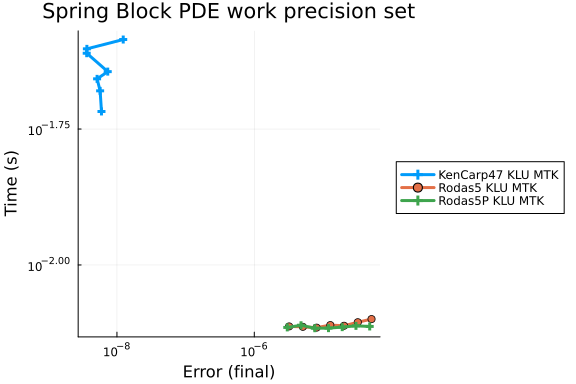
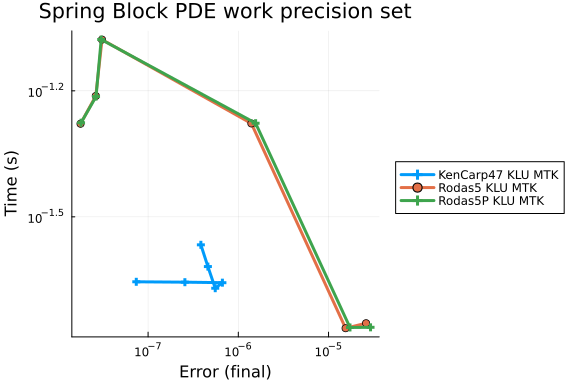
Publish refreshed SpringBlock benchmark (#33)
Claude-Session: https://chatgpt.com/codex/tasks/01a03a17-ad6f-7131-82fc-d0fd57ea6512

diff --git a/markdown/ComplicatedPDE/SpringBlockNonLinearResistance.md b/markdown/ComplicatedPDE/SpringBlockNonLinearResistance.md
@@ -8,6 +8,7 @@ see https://discourse.julialang.org/t/boundserror-on-odeproblem-accelerated-with
 
 ```julia
 using OrdinaryDiffEq, Symbolics, ModelingToolkit, Sundials, LinearSolve, SparseArrays
+using OrdinaryDiffEqRosenbrock, OrdinaryDiffEqSDIRK
 using NonlinearSolve
 using GaussianRandomFields
 using StableRNGs
@@ -137,12 +138,6 @@ output = similar(input);
 sparsity_pattern = Symbolics.jacobian_sparsity(f0, output, input, nothing, 0.0);
 jac_sparsity = Float64.(sparse(sparsity_pattern));
 f = ODEFunction{true, SciMLBase.FullSpecialize}(f0; jac_prototype = jac_sparsity);
-#Callbacks--------------------------------------------------------------------------------------------------------------------
-is_start(u, t, integrator) = sum(abs.(integrator.u[(Ny * Nx + 1):(2 * Ny * Nx)]))>0.01 #detects onset of high cumulative velocity phase
-is_end(u, t, integrator) = sum(abs.(integrator.u[(Ny * Nx + 1):(2 * Ny * Nx)]))<0.01 #detects end of high cumulative velocity phase
-affect!(integrator) = terminate!(integrator)
-cb1 = DiscreteCallback(is_start, terminate!, save_positions = (false, false))
-cb2 = DiscreteCallback(is_end, terminate!, save_positions = (false, false))
 #Solver Setup-------------------------------------------------------------------------------------------------------------------
 solver = KenCarp47(linsolve = KLUFactorization());
 abstol = 1e-12;
@@ -151,28 +146,42 @@ reltol = 1e-8;
 u0 = get_IC();
 tspan = (0.0, 1e9);
 prob1 = ODEProblem(f, u0, tspan, nothing);
-@mtkcompile sys = modelingtoolkitize(prob1)
+@named uncompiled_sys = modelingtoolkitize(prob1)
+sys = mtkcompile(uncompiled_sys)
 prob_mtk1 = ODEProblem(sys, [], tspan, jac = true, sparse = true);
+state_indices1 = Dict(state => i for (i, state) in pairs(unknowns(sys)))
+original_state_indices1 = [state_indices1[state] for state in unknowns(uncompiled_sys)]
+velocity_indices1 = original_state_indices1[(Ny * Nx + 1):(2 * Ny * Nx)]
+is_start(u, t, integrator) = sum(abs, @view(integrator.u[velocity_indices1])) > 0.01
+cb1 = DiscreteCallback(is_start, terminate!, save_positions = (false, false))
 global sol, tcpu,
 bytes,
 gctime,
 memallocs = @timed solve(
     prob_mtk1, solver, reltol = reltol, abstol = abstol, maxiters = Int(1e12),
     save_everystep = false, dtmin = 1e-20, callback = cb1); #about 55 sec
-u1 = sol.u[end];
+@assert SciMLBase.successful_retcode(sol) "Phase 1 reference solve failed: $(sol.retcode)"
+u1 = sol.u[end][original_state_indices1];
 t1 = sol.t[end];
 test_sol1 = TestSolution(sol)
 #code (2): high cumulative velocity (>0.01) following phase (1)
 tspan = (0.0, 1e4);
 prob2 = ODEProblem(f, convU0(u1), tspan, nothing);
-@mtkcompile sys2 = modelingtoolkitize(prob2)
+@named uncompiled_sys2 = modelingtoolkitize(prob2)
+sys2 = mtkcompile(uncompiled_sys2)
 prob_mtk2 = ODEProblem(sys2, [], tspan, jac = true, sparse = true);
+state_indices2 = Dict(state => i for (i, state) in pairs(unknowns(sys2)))
+original_state_indices2 = [state_indices2[state] for state in unknowns(uncompiled_sys2)]
+velocity_indices2 = original_state_indices2[(Ny * Nx + 1):(2 * Ny * Nx)]
+is_end(u, t, integrator) = sum(abs, @view(integrator.u[velocity_indices2])) < 0.01
+cb2 = DiscreteCallback(is_end, terminate!, save_positions = (false, false))
 global sol, tcpu,
 bytes,
 gctime,
 memallocs = @timed solve(
     prob_mtk2, solver, reltol = reltol, abstol = abstol, maxiters = Int(1e12),
     save_everystep = false, dtmin = 1e-20, callback = cb2); #about 175 sec
+@assert SciMLBase.successful_retcode(sol) "Phase 2 reference solve failed: $(sol.retcode)"
 u2 = sol.u[end];
 t2 = t1 + sol.t[end];
 
@@ -193,8 +202,8 @@ u: nothing
 The WP diagram setup:
 
 ```julia
-abstols = 1.0 ./ 10.0 .^ (6:12)
-reltols = 1.0 ./ 10.0 .^ (2:8)
+abstols = 1.0 ./ 10.0 .^ (6:11)
+reltols = 1.0 ./ 10.0 .^ (2:7)
 setups = [
     Dict(:alg=>KenCarp47(linsolve = KLUFactorization()), :prob_choice=>1),
     Dict(:alg=>Rodas5(), :prob_choice=>1),
@@ -204,9 +213,12 @@ names = ["KenCarp47 KLU MTK", "Rodas5 KLU MTK", "Rodas5P KLU MTK"]
 
 probs = [prob_mtk1, prob_mtk2]
 test_sols = [test_sol1, test_sol2]
-wp = WorkPrecisionSet(probs, abstols, reltols, setups; names = names,
-    save_everystep = false, maxiters = Int(1e5),
-    numruns = 10, appxsol = test_sols, callback = cb2, dtmin = 1e-20)
+wp = WorkPrecisionSet(
+    probs, abstols, reltols, setups; names = names,
+    save_everystep = false, maxiters = Int(1.0e5),
+    numruns = 10, appxsol = test_sols, callback = cb1, dtmin = 1.0e-20
+)
+@assert all(w -> all(error -> isfinite(error[:final]) && error[:final] > 0, w.errors), wp.wps) "A solver produced an invalid work-precision point"
 
 plot(wp, label = reduce(hcat, names), markershape = :auto, title = "Spring Block PDE work precision set")
 ```
